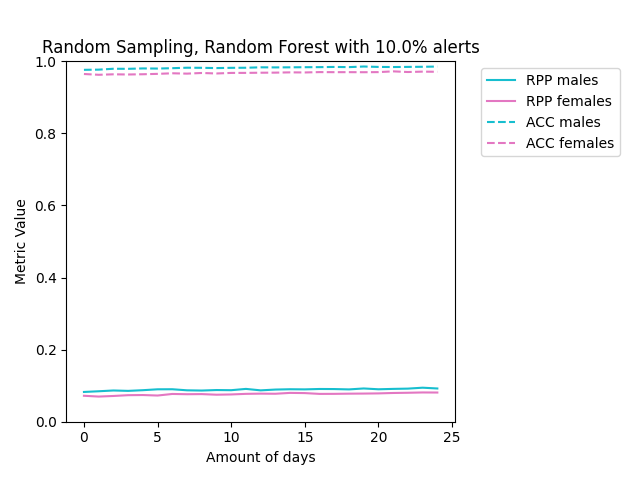
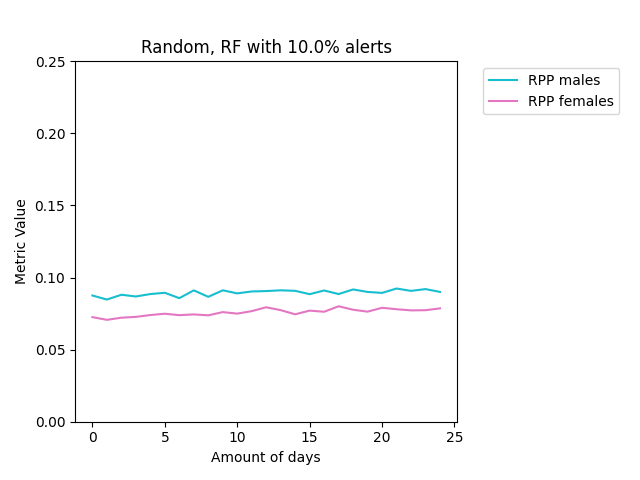
Improved graphs random RQ3

diff --git a/scenarios/metrics_over_time.py b/scenarios/metrics_over_time.py
@@ -9,7 +9,7 @@ bank_process: TransactionsOverTime = TransactionsOverTime(
     sample_size=6500,
     amount_of_days=25,
     random_training_set=True,
-    title_scenario="Biased, LR",
+    title_scenario="Random, LR",
     percentage_alerts=0.01,
     active_learning=False,
     percentage_active_learning=0.1,
@@ -24,7 +24,7 @@ bank_process: TransactionsOverTime = TransactionsOverTime(
     sample_size=6500,
     amount_of_days=25,
     random_training_set=True,
-    title_scenario="Biased, LR",
+    title_scenario="Random, LR",
     percentage_alerts=0.05,
     active_learning=False,
     percentage_active_learning=0.1,
@@ -39,7 +39,7 @@ bank_process: TransactionsOverTime = TransactionsOverTime(
     sample_size=6500,
     amount_of_days=25,
     random_training_set=True,
-    title_scenario="Biased, LR",
+    title_scenario="Random, LR",
     percentage_alerts=0.1,
     active_learning=False,
     percentage_active_learning=0.1,
@@ -56,7 +56,7 @@ bank_process: TransactionsOverTime = TransactionsOverTime(
     sample_size=6500,
     amount_of_days=25,
     random_training_set=True,
-    title_scenario="Biased, RF",
+    title_scenario="Random, RF",
     percentage_alerts=0.01,
     active_learning=False,
     percentage_active_learning=0.1,
@@ -71,7 +71,7 @@ bank_process: TransactionsOverTime = TransactionsOverTime(
     sample_size=6500,
     amount_of_days=25,
     random_training_set=True,
-    title_scenario="Biased, RF",
+    title_scenario="Random, RF",
     percentage_alerts=0.05,
     active_learning=False,
     percentage_active_learning=0.1,
@@ -86,7 +86,7 @@ bank_process: TransactionsOverTime = TransactionsOverTime(
     sample_size=6500,
     amount_of_days=25,
     random_training_set=True,
-    title_scenario="Biased, RF",
+    title_scenario="Random, RF",
     percentage_alerts=0.1,
     active_learning=False,
     percentage_active_learning=0.1,
